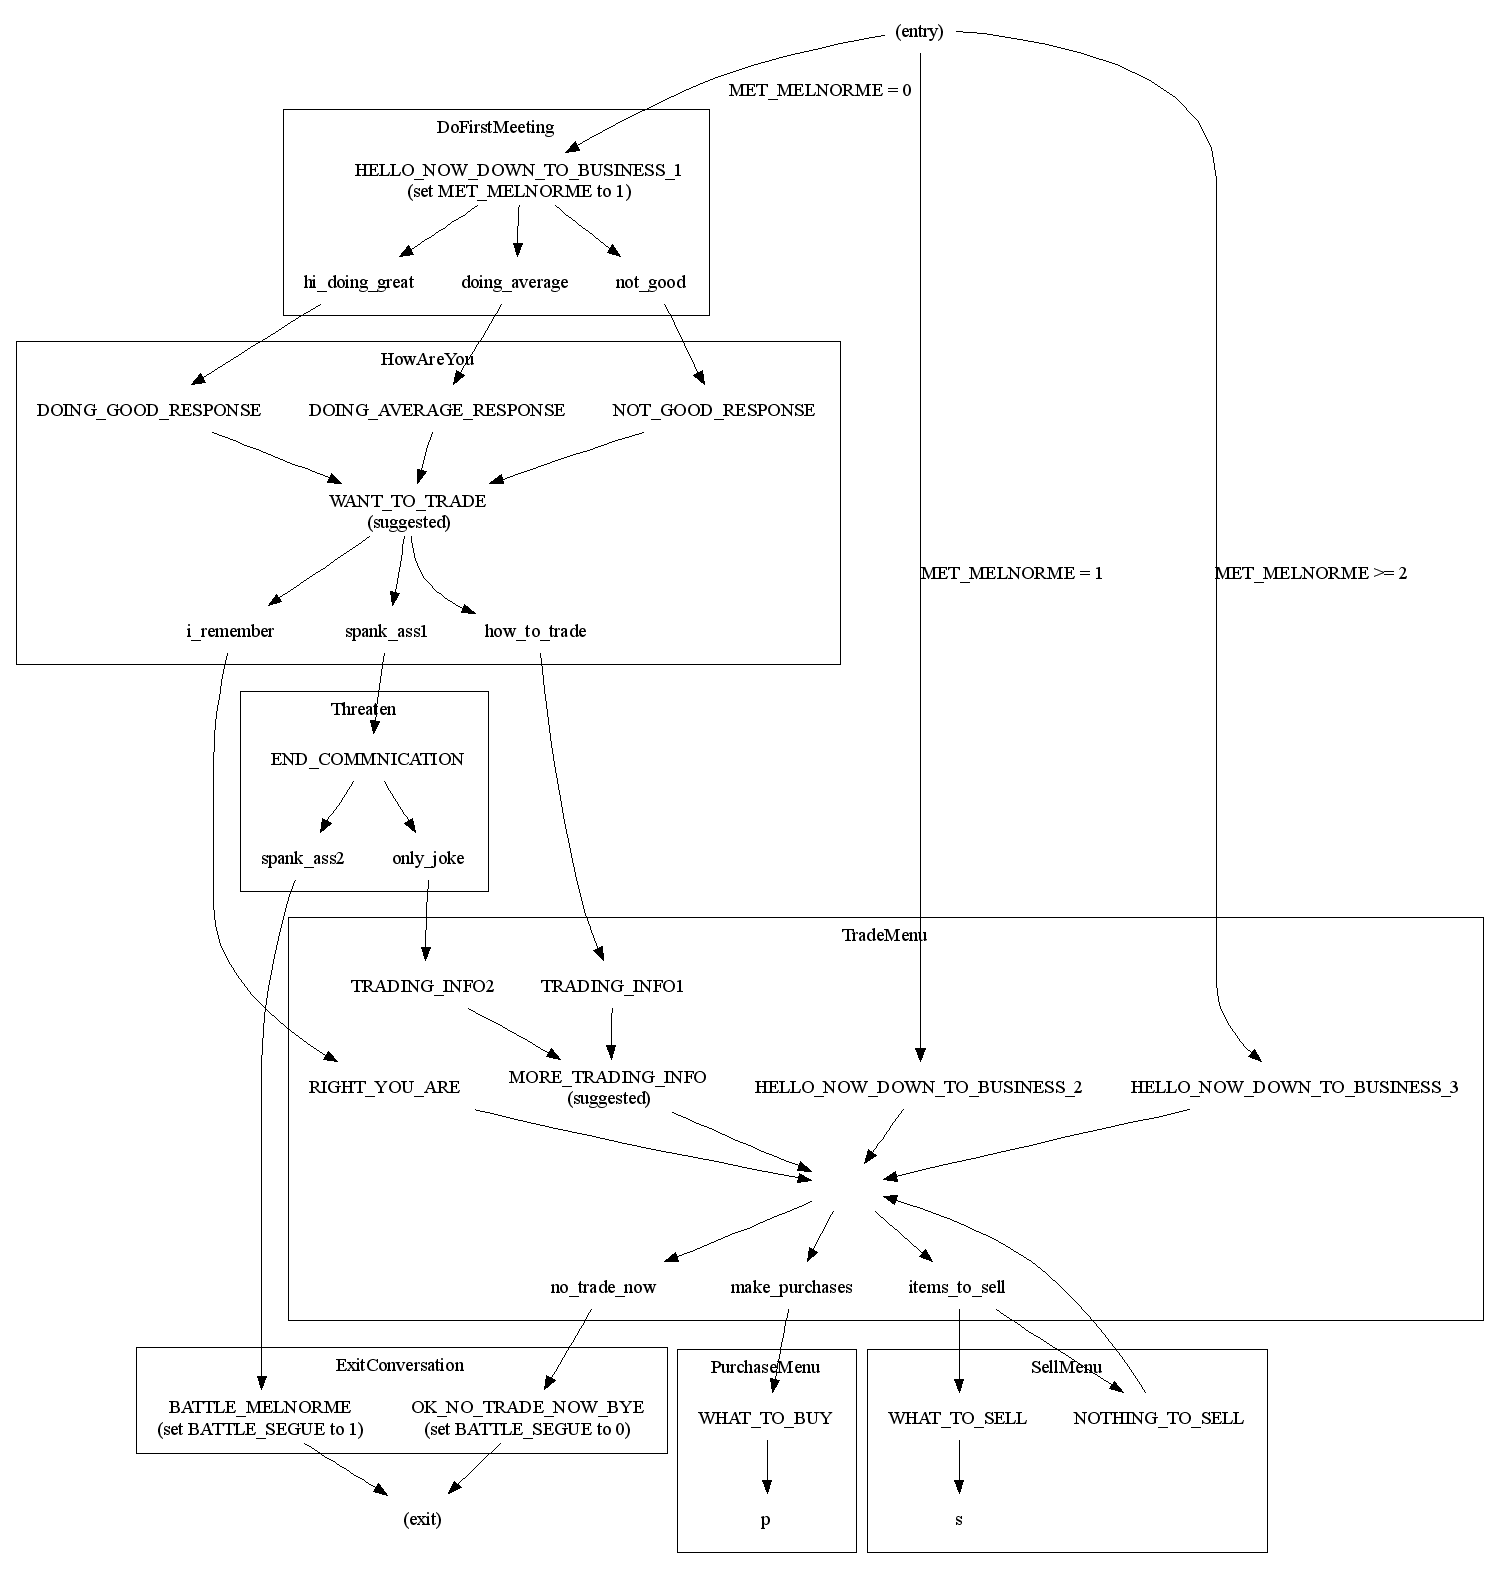
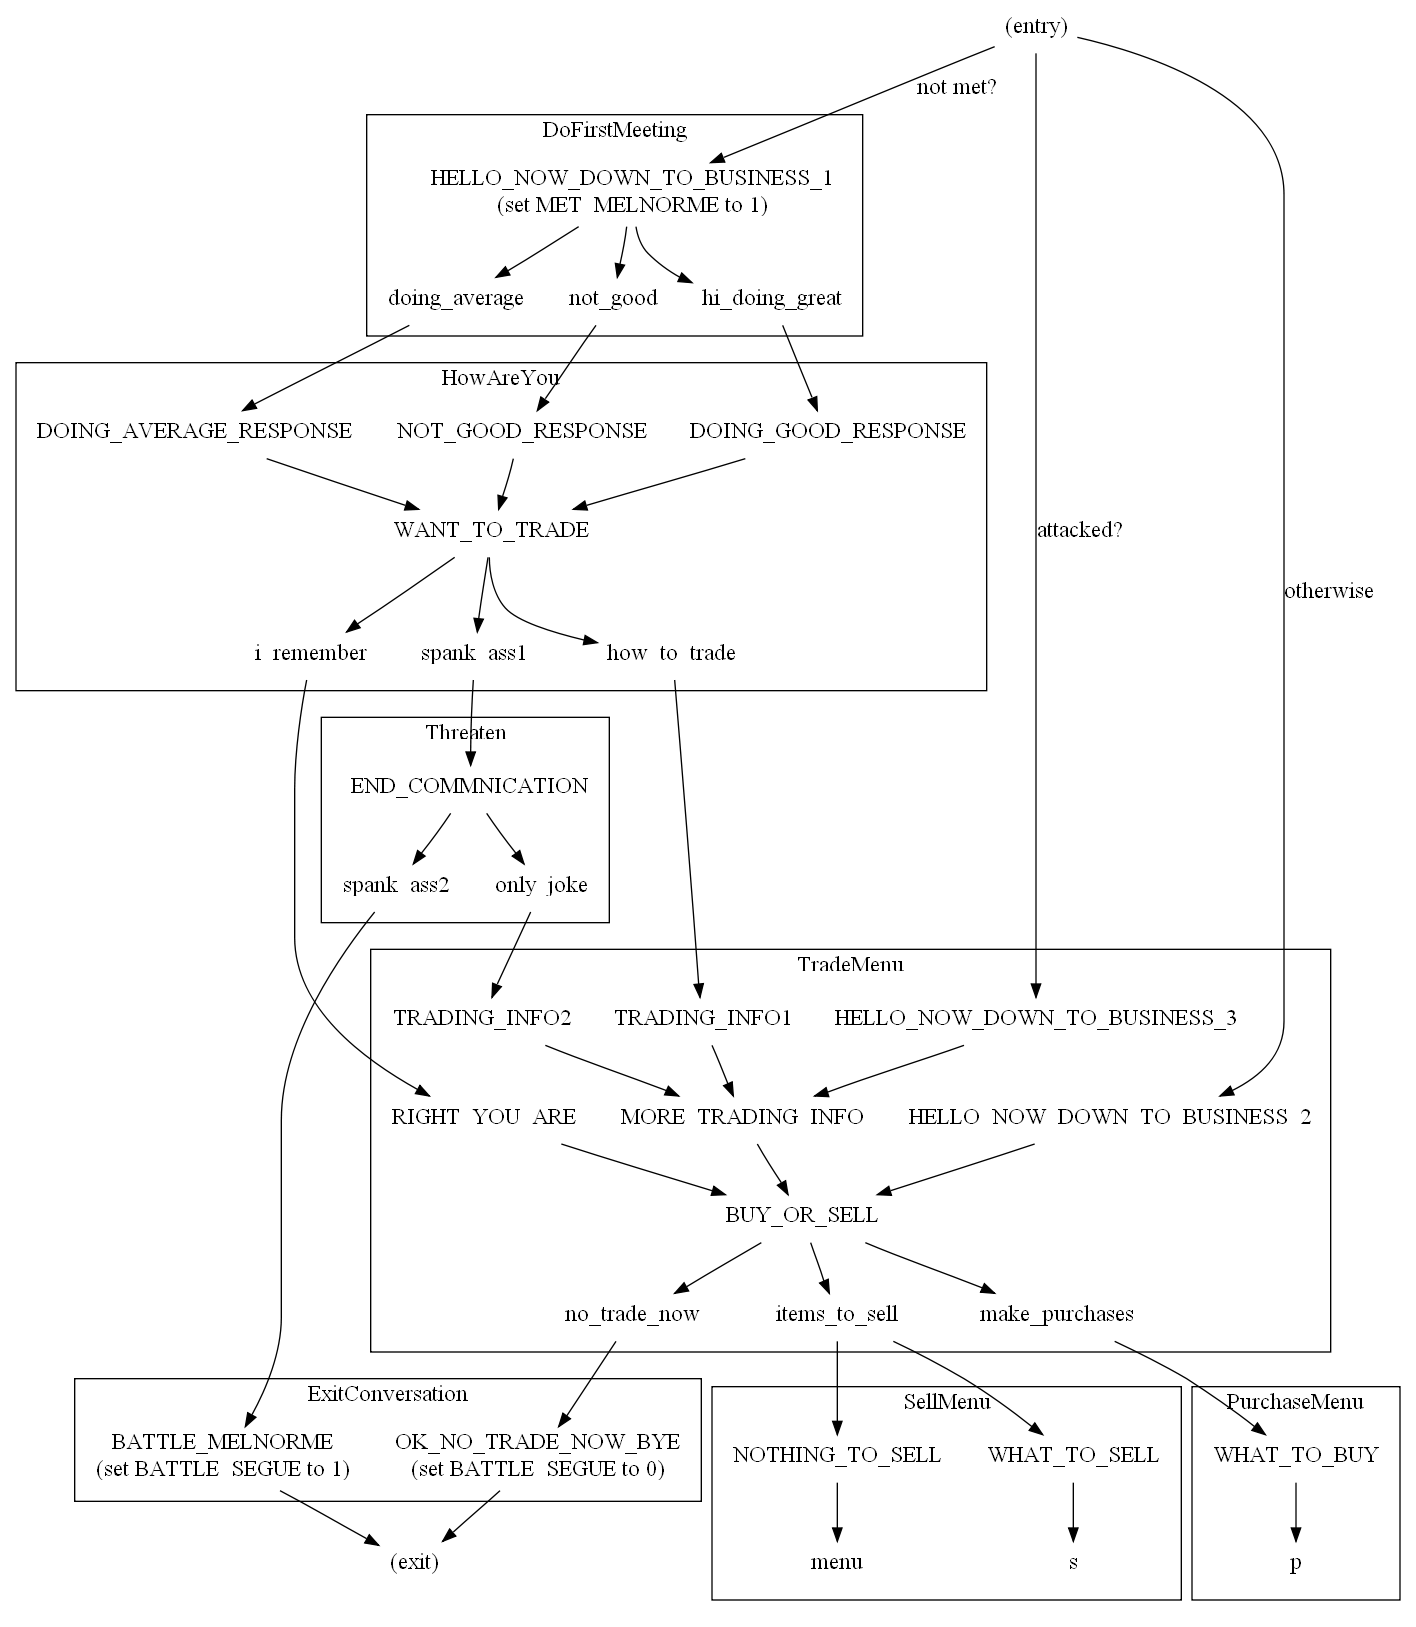
More clean up.

diff --git a/trunk/sc2/src/sc2code/comm/melnorm/melnorm.c b/trunk/sc2/src/sc2code/comm/melnorm/melnorm.c
@@ -293,6 +293,7 @@ TradeMenu (RESPONSE_REF R)
 	if (PLAYER_SAID (R, only_joke))
 	{
 		NPCPhrase (TRADING_INFO2);
+		NPCPhrase (MORE_TRADING_INFO);
 	}
 	else if (PLAYER_SAID (R, i_remember))
 	{
@@ -301,7 +302,10 @@ TradeMenu (RESPONSE_REF R)
 	else if (PLAYER_SAID (R, how_to_trade))
 	{
 		NPCPhrase (TRADING_INFO1);
+		NPCPhrase (MORE_TRADING_INFO);
 	}
+	//TODO HELLO_NOW_DOWN_TO_BUSINESS2 if normal,
+	//HELLO_NOW_DOWN_TO_BUSINESS3 if attack last time
 	else if (GET_GAME_STATE (MET_MELNORME) == 0)
 	{
 		SET_GAME_STATE (MET_MELNORME, 1);
@@ -321,7 +325,6 @@ TradeMenu (RESPONSE_REF R)
 	Response (items_to_sell, SellMenu);
 	Response (no_trade_now, ExitConversation);
 }
-
 
 
 static void

diff --git a/trunk/sc2/src/sc2code/globdata.h b/trunk/sc2/src/sc2code/globdata.h
@@ -347,7 +347,7 @@ START_GAME_STATE
 	ADD_GAME_STATE (MELNORME8_GRPOFFS2, 8)
 	ADD_GAME_STATE (MELNORME8_GRPOFFS3, 8)
 
-	ADD_GAME_STATE (MET_MELNORME, 1)
+	ADD_GAME_STATE (MET_MELNORME, 1)  //TODO rename MELNORME_MET
 	ADD_GAME_STATE (MELNORME_RESCUE_REFUSED, 1)
 	ADD_GAME_STATE (MELNORME_RESCUE_COUNT, 3)
 	ADD_GAME_STATE (TRADED_WITH_MELNORME, 1)

diff --git a/trunk/sc2/src/sc2code/comm/melnorm/strings.h b/trunk/sc2/src/sc2code/comm/melnorm/strings.h
@@ -63,6 +63,7 @@ enum
 	WANT_TO_TRADE,
 	how_to_trade,
 	TRADING_INFO1,
+	MORE_TRADING_INFO,
 	i_remember,
 	RIGHT_YOU_ARE,
 	make_purchases,
